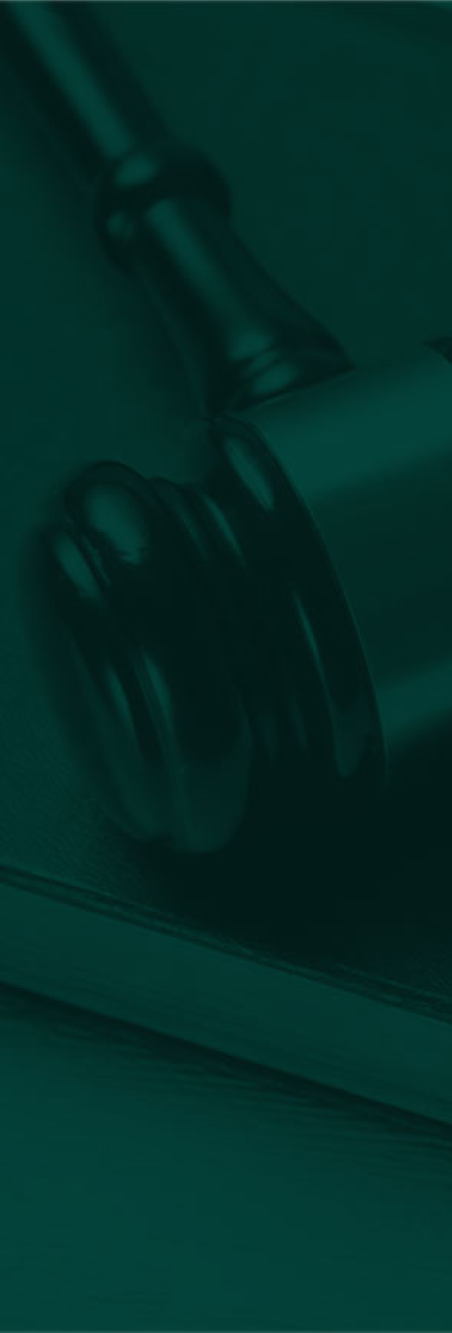
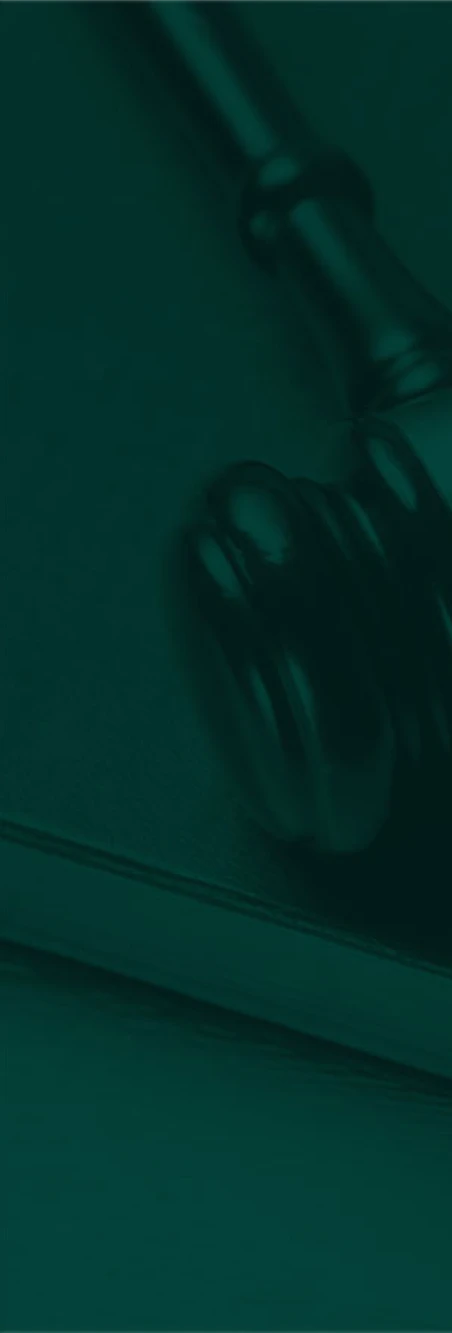
imagest test 2

diff --git a/index.html b/index.html
@@ -17,11 +17,11 @@
     <section class="hero">
         <div class="container">
             <picture>
-                <source srcset="img/bg.webp" type="image/webp" />
-                <!-- <source srcset="img/bg-mobile.webp" type="image/webp" /> -->
+                <source srcset="img/bg.webp" type="image/webp" media="(min-width: 450px)" />
+                <source srcset="img/bg-mobile.webp" type="image/webp" />
                 <img class="hero-banner" src="img/bg.jpg"
                     srcset="img/bg-mobile.png 452w, img/bg-1440.png 1440w, img/bg.jpg 1920w"
-                    alt="banner z młotkiem sędziowskim" loading="eager" decoding="sync">
+                    alt="banner z młotkiem sędziowskim" loading="eager" decoding="sync" sizes="100vw">
             </picture>
 
             <div class="flex">
